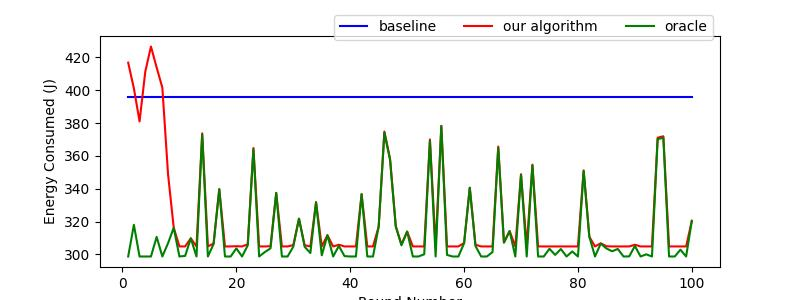
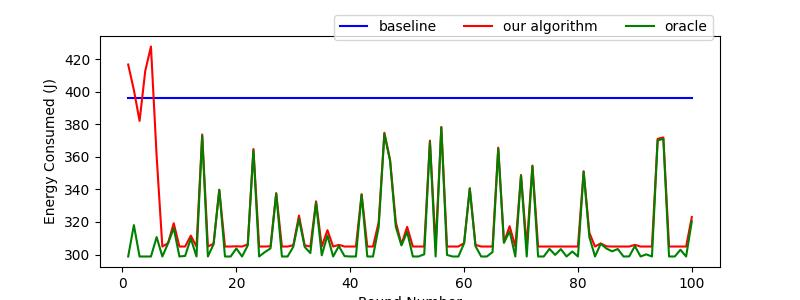
agx parameter set

diff --git a/TX2/simulator.py b/TX2/simulator.py
@@ -76,7 +76,7 @@ class Simulation:
 
         self.rounds = 100
         self.explore_size = 10
-        self.Bayesian_observation_threshold = math.ceil(SPACE_SIZE * 0.05)
+        self.Bayesian_observation_threshold = math.ceil(SPACE_SIZE * 0.03)
         self.Bayesian_batch_size = None
         self.HV_threshold = 0.01
         self.tau = 5
